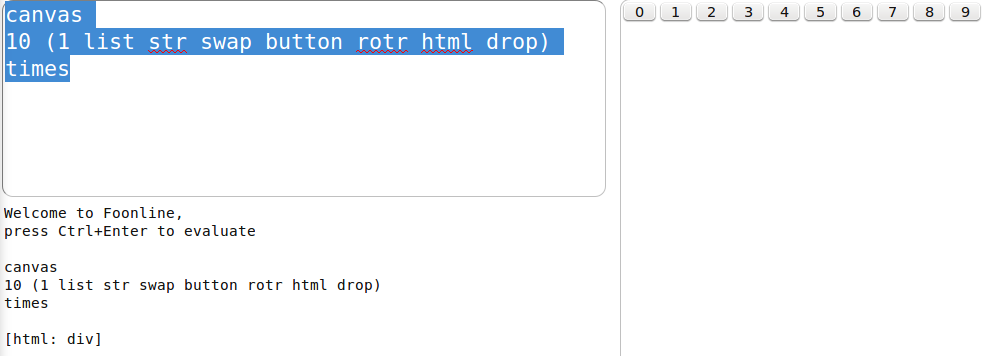
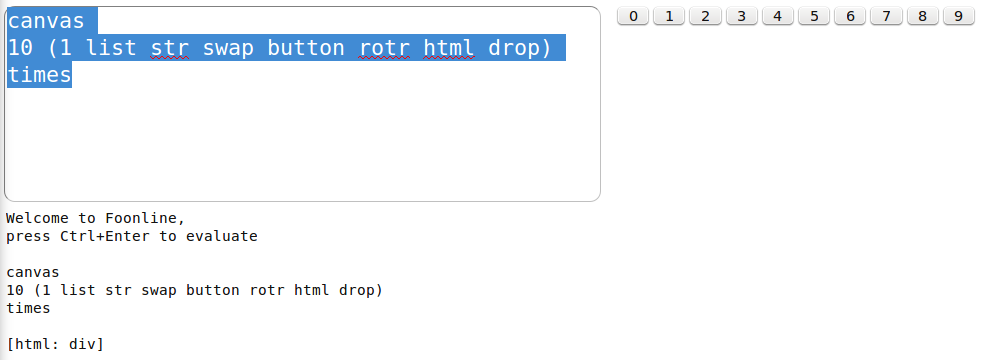
new example

diff --git a/www/foonline.css b/www/foonline.css
@@ -1,12 +1,11 @@
+body {
+    padding: 1%;
+}
+
 #canvas {
-    border: 1px solid;
-    border-top-color: silver;
-    border-left-color: silver;
-    border-bottom-color: gray;
-    border-right-color: gray;
-    border-radius: 0.5em;
+    border: none;
     display: inline-block;
-    height:99vh;
+    height:98vh;
     overflow: scroll;
     width: 49%;
 }
@@ -38,7 +37,6 @@
     display: inline-block;
     height: 99vh;
     margin-right: 1%;
-    width: 48%;
+    width: 49%;
     vertical-align: top;
-    padding-left: 1%
 }
